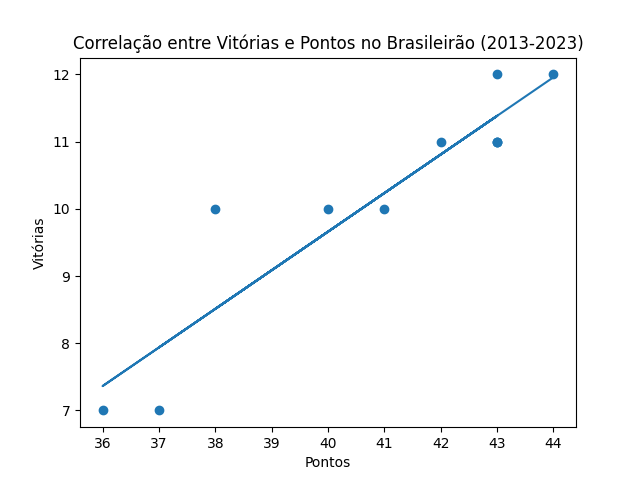
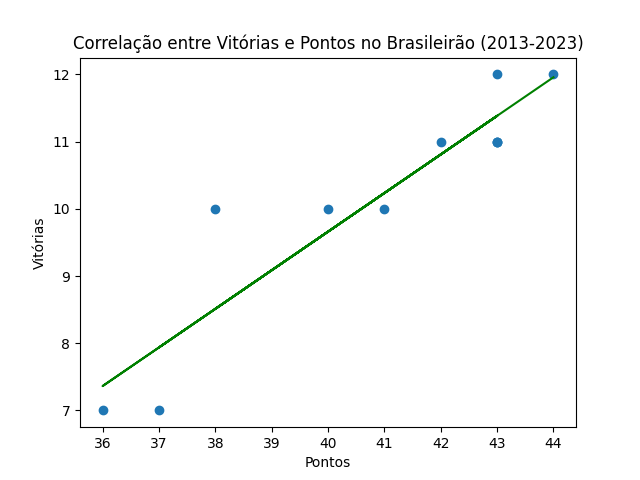
update

diff --git a/main.py b/main.py
@@ -2,7 +2,7 @@ from pandas import read_html, to_numeric, DataFrame
 from requests import get
 from io import StringIO
 import matplotlib.pyplot as plt
-import numpy as np
+from numpy import polyfit, poly1d
 import re
 
 
@@ -20,6 +20,7 @@ def extrai_tabelas_da_url(links: list):
                 lista_dataframe.append(dataframe)
     return lista_dataframe
                 
+
 urls = [
         f"https://pt.wikipedia.org/wiki/Campeonato_Brasileiro_de_Futebol_de_{ano}_-_Série_A"
         for ano in range(2013, 2024)
@@ -82,10 +83,10 @@ plt.ylabel("Vitórias")
 plt.title("Correlação entre Vitórias e Pontos no Brasileirão (2013-2023)")
 
 # Criação da linha de tendencia do gráfico de vitorias x pontos
-z = np.polyfit(pontos_por_temporada, vitorias_por_temporada, 1)
-p = np.poly1d(z)
+coeficientes = polyfit(pontos_por_temporada, vitorias_por_temporada, 1)
+polinomio = poly1d(coeficientes)
 
-plt.plot(pontos_por_temporada, p(pontos_por_temporada))
+plt.plot(pontos_por_temporada, polinomio(pontos_por_temporada), 'g-')
 plt.savefig("./Graficos/correlacaoVitorias_Pontos.png")
 
 plt.show()
